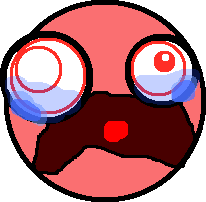
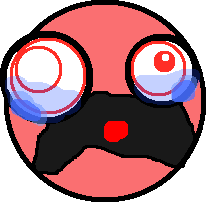
remove jQuery Mobile, edit images based on feedback, hide chart in Portrait view
jQuery Mobile/Chrome compatibility issues

Changed region(s): [[0.1748, 0.4455, 0.932, 0.8614]]

diff --git a/index.html b/index.html
@@ -5,8 +5,11 @@
   <link href='https://fonts.googleapis.com/css?family=Titan+One|Hind|Muli' rel='stylesheet' type='text/css'>
 
   <link rel="stylesheet" href="moodScaleStyles.css">
+  <link rel="stylesheet" href="https://ajax.googleapis.com/ajax/libs/jquerymobile/1.4.5/jquery.mobile.min.css">
+
 
   <script src="https://ajax.googleapis.com/ajax/libs/jquery/2.1.4/jquery.min.js"></script>
+
   <script type="text/javascript" src="https://www.gstatic.com/charts/loader.js"></script>
   <script src="scripts/moodChartScripts.js"></script>
   <script src="scripts/util.js"></script>
@@ -29,13 +32,14 @@
     <img id=11 src=moodScale/11AHHHHHPANIC.png>
   </div>
 
-  <form>
+  <form class=hidden>
     <label>
-      Enter a number between 1-10 <input type="number" name='quantity' min='1' max='11'>
+      Enter a number between 1-10
+      <input type="number" name='quantity' min='1' max='11'>
     </label>
   </form>
 
-  <div id=curve_chart style='width: 900px; height: 500px'>
+  <div id=curve_chart style='width: 900px; height: 500px' class=hidden>
   </div>
 
   <div>

diff --git a/scripts/util.js b/scripts/util.js
@@ -20,14 +20,20 @@ $(function() {
   });
 
 
-  $('input').on('keypress', function(e){
-    if(event.which === 13) {
+  $('input').on('keypress', function(e) {
+    if (event.which === 13) {
       console.log('the value is ' + $('input').val())
-      // $(this).attr('disabled', 'disabled');
+        // $(this).attr('disabled', 'disabled');
       var newDataPoint = jQuery.makeArray([fullDate, $('input').val()]);
       $(data).append(newDataPoint);
     }
   });
+
+  $(window).on('orientationchange', function(event) {
+    $('div').toggleClass('hidden');
+    console.log('This device is in ' + event.orientation + ' mode.')
+  });
+
 
 
 });

diff --git a/moodScaleStyles.css b/moodScaleStyles.css
@@ -1,24 +1,22 @@
 .container {
   display: flex;
 }
-
+.hidden {
+  display: none;
+}
 h1 {
   font-size: 4em;
 }
-
 h3 {
   font-size: 3em;
 }
-
 img {
   width: 15%;
 }
-
 #flex-body {
   flex-direction: column;
   align-items: center;
 }
-
 #moodScale {
   flex-direction: row;
   flex-wrap: nowrap;
